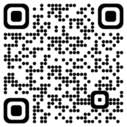
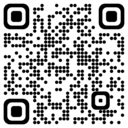
qr codes

diff --git a/README.md b/README.md
@@ -7,8 +7,8 @@
 <img alt="sample icons screenshot" src="https://raw.githubusercontent.com/iconforest/icon_forest/main/readme_images/icons_snapshot.png" />
 
 It has two components:
-1. a free app that searches icons - the **IconForest** app
-2. a collection of icon libraries - the **icon_forest** package
+1. a free app that searches icons (**IconForest** app)
+2. a collection of icon libraries (**icon_forest** package)
 
 ---
 
@@ -25,7 +25,7 @@ Icons can be easily applied to your projects with pubspec.yaml.
     <tr>
       <td align="center">
         <a
-          href="https://play.google.com/store/apps/details?id=com.flutterplay.iconforest"
+          href="http://iconforest.flutterplay.com/download/googleplay.php"
           ><img
             alt="Google Play"
             src="https://raw.githubusercontent.com/iconforest/icon_forest/main/readme_images/download/googleplay.png"
@@ -39,7 +39,7 @@ Icons can be easily applied to your projects with pubspec.yaml.
         /></a>
       </td>
       <td align="center">
-        <a href="https://apps.apple.com/app/iconforest/id1626186092"
+        <a href="http://iconforest.flutterplay.com/download/appstore.php"
           ><img
             alt="Appstore"
             src="https://raw.githubusercontent.com/iconforest/icon_forest/main/readme_images/download/appstore.png"
@@ -57,7 +57,7 @@ Icons can be easily applied to your projects with pubspec.yaml.
       </td>
       <td align="center">
         <img
-          alt="Appstore"
+          alt="apk"
           src="https://raw.githubusercontent.com/iconforest/icon_forest/main/readme_images/qr/qr_apk.png"
           width="127"
           height="127"
